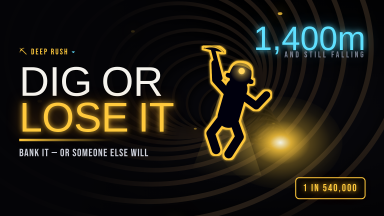
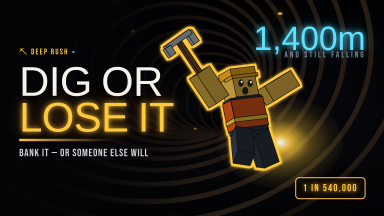
Rebuild the cover around a real blocky Roblox character
The first cover used a smooth silhouette. It looked good and it did not look
like Roblox, and a thumbnail's first job is telling a scrolling player what
platform they are looking at. Every top thumbnail on the platform does that
with an avatar.

robloxian.js builds a classic R6 rig out of real 3D boxes — projected,
depth-sorted, shaded per face against a light, posed by rotating actual
joints. Hard hat, hi-vis vest, pickaxe, and a deliberately shocked face:
strong expressions measurably out-click neutral ones.

avatar.mjs fetches a transparent render of a real account's avatar through the
official thumbnails API, for anyone who wants recognisability over posability.
The drawn rig stays the default because it always works, needs no account and
cannot be someone else's likeness.

The silhouette version is kept as thumb-depth-silhouette.html for comparison.

Claude-Session: https://claude.ai/code/session_01FZfKAgzrL8KdE8q7yoRDgc

Changed region(s): [[0.4062, 0.1111, 0.8125, 0.8056]]

diff --git a/roblox-deep-rush/cover/assets/robloxian.js b/roblox-deep-rush/cover/assets/robloxian.js
@@ -1,0 +1,222 @@
+/*
+  robloxian.js — an actual blocky Roblox character, drawn as real 3D boxes.
+
+  The first cover used a smooth silhouette. It looked good, but it did not
+  look like ROBLOX, and a thumbnail's first job is to tell a scrolling player
+  which platform and which kind of game they are looking at. Every top
+  thumbnail on the platform has a blocky avatar in it.
+
+  So this builds a classic R6 rig — head, torso, two arms, two legs — as
+  boxes in 3D, projects them, sorts the faces back-to-front and shades each
+  one by its angle to a light. Posing is real rotation around real joints,
+  which is why the pose reads as a pose rather than as a sticker.
+
+  The face is deliberately extreme. Thumbnails with strong emotional
+  expressions measurably out-click neutral ones, and "shocked" is the
+  expression the whole platform's visual language is built on.
+*/
+
+const DEG = Math.PI / 180;
+
+/* Camera: a three-quarter view, slightly from above. Straight-on loses the
+   blockiness entirely, and that blockiness is the whole point. */
+const YAW = -28 * DEG;
+const PITCH = 10 * DEG;
+
+const LIGHT = normalise([-0.45, 0.8, 0.55]);
+
+function normalise(v) {
+  const length = Math.hypot(v[0], v[1], v[2]) || 1;
+  return [v[0] / length, v[1] / length, v[2] / length];
+}
+
+function rotate(point, rotation) {
+  let [x, y, z] = point;
+  const [rx, ry, rz] = rotation.map((d) => d * DEG);
+
+  if (rz) {
+    const c = Math.cos(rz), s = Math.sin(rz);
+    [x, y] = [x * c - y * s, x * s + y * c];
+  }
+  if (rx) {
+    const c = Math.cos(rx), s = Math.sin(rx);
+    [y, z] = [y * c - z * s, y * s + z * c];
+  }
+  if (ry) {
+    const c = Math.cos(ry), s = Math.sin(ry);
+    [x, z] = [x * c + z * s, -x * s + z * c];
+  }
+  return [x, y, z];
+}
+
+function project(point) {
+  const [x, y, z] = point;
+  const cy = Math.cos(YAW), sy = Math.sin(YAW);
+  const x1 = x * cy + z * sy;
+  const z1 = -x * sy + z * cy;
+  const cp = Math.cos(PITCH), sp = Math.sin(PITCH);
+  const y1 = y * cp - z1 * sp;
+  const depth = y * sp + z1 * cp;
+  return { x: x1, y: -y1, depth };
+}
+
+/* Face definitions as corner indices into the 8 box corners, plus the
+   outward normal used for shading. */
+const FACES = [
+  { corners: [0, 1, 3, 2], normal: [0, 0, -1] }, // front
+  { corners: [5, 4, 6, 7], normal: [0, 0, 1] },  // back
+  { corners: [4, 0, 2, 6], normal: [-1, 0, 0] }, // left
+  { corners: [1, 5, 7, 3], normal: [1, 0, 0] },  // right
+  { corners: [4, 5, 1, 0], normal: [0, 1, 0] },  // top
+  { corners: [2, 3, 7, 6], normal: [0, -1, 0] }, // bottom
+];
+
+function shade(hex, amount) {
+  const n = parseInt(hex.slice(1), 16);
+  const r = Math.min(255, Math.max(0, Math.round(((n >> 16) & 255) * amount)));
+  const g = Math.min(255, Math.max(0, Math.round(((n >> 8) & 255) * amount)));
+  const b = Math.min(255, Math.max(0, Math.round((n & 255) * amount)));
+  return `rgb(${r},${g},${b})`;
+}
+
+/**
+ * Turn one box into drawable, depth-sorted polygons.
+ * pivot   world-space joint the part rotates about
+ * offset  centre of the box relative to that joint
+ * size    [width, height, depth] in studs
+ */
+function boxFaces(part) {
+  const { pivot, offset, size, rotation = [0, 0, 0], color } = part;
+  const [w, h, d] = size.map((s) => s / 2);
+
+  const local = [
+    [-w, h, -d], [w, h, -d], [-w, -h, -d], [w, -h, -d],
+    [-w, h, d], [w, h, d], [-w, -h, d], [w, -h, d],
+  ];
+
+  const world = local.map((corner) => {
+    const moved = [corner[0] + offset[0], corner[1] + offset[1], corner[2] + offset[2]];
+    const spun = rotate(moved, rotation);
+    return [spun[0] + pivot[0], spun[1] + pivot[1], spun[2] + pivot[2]];
+  });
+
+  const projected = world.map(project);
+
+  return FACES.map((face) => {
+    const normal = normalise(rotate(face.normal, rotation));
+    const lambert = Math.max(0, normal[0] * LIGHT[0] + normal[1] * LIGHT[1] + normal[2] * LIGHT[2]);
+    // Ambient floor keeps the shadowed side readable instead of black.
+    const brightness = 0.52 + lambert * 0.62;
+    const points = face.corners.map((index) => projected[index]);
+    return {
+      depth: points.reduce((sum, p) => sum + p.depth, 0) / 4,
+      points,
+      fill: shade(color, brightness),
+      part,
+    };
+  });
+}
+
+/**
+ * A classic R6 miner. `pose` rotates the limbs; everything else is fixed
+ * proportion, because R6 proportions are the recognisable part.
+ */
+function robloxMiner(options) {
+  const o = Object.assign({
+    scale: 46,
+    skin: '#f2c14a',
+    shirt: '#e2571e',
+    vest: '#ffd23f',
+    trousers: '#2c3446',
+    helmet: '#ffb020',
+    haft: '#7a5426',
+    steel: '#c9ced8',
+    lean: -14,
+    outline: '#08080c',
+    rim: '#ffc93c',
+  }, options || {});
+
+  /*
+    Joint angles, and how to read them. A limb hangs from its pivot with
+    offset (0,-1,0); a Z rotation of theta swings its far end to
+    (sin theta, -cos theta). So 0 hangs straight down, 180 points straight up,
+    and anything in 90..180 goes up-and-right. Getting this backwards is why
+    the first pass had both arms folded across the chest.
+  */
+  const ARM_PICK = 205;   // up and out to the left, holding the pick
+  const ARM_FREE = 112;   // out to the right, roughly horizontal
+
+  const parts = [
+    // Legs, splayed outward and kicked back so they read as two legs.
+    { pivot: [-0.5, -1, 0], offset: [0, -1, 0], size: [1, 2, 1], rotation: [30, 0, -20], color: o.trousers },
+    { pivot: [0.5, -1, 0], offset: [0, -1, 0], size: [1, 2, 1], rotation: [-18, 0, 16], color: o.trousers },
+
+    // Torso: dark shirt, hi-vis vest over it, reflective stripe across.
+    { pivot: [0, 0, 0], offset: [0, 0, 0], size: [2, 2, 1], color: o.trousers },
+    { pivot: [0, 0, 0], offset: [0, 0.06, 0], size: [2.08, 1.66, 1.08], color: o.shirt },
+    { pivot: [0, 0, 0], offset: [0, -0.28, 0], size: [2.12, 0.24, 1.12], color: o.vest },
+
+    // Arms.
+    { pivot: [-1.5, 1, 0], offset: [0, -1, 0], size: [1, 2, 1], rotation: [0, 0, ARM_PICK], color: o.skin },
+    { pivot: [1.5, 1, 0], offset: [0, -1, 0], size: [1, 2, 1], rotation: [0, 0, ARM_FREE], color: o.skin },
+
+    // The pickaxe hangs off the same pivot as the raised arm, so it stays in
+    // the hand no matter how that arm is posed, and it gets depth-sorted with
+    // everything else instead of floating on top as a flat sticker.
+    { pivot: [-1.5, 1, 0], offset: [0, -2.9, 0], size: [0.26, 2.6, 0.26], rotation: [0, 0, ARM_PICK], color: o.haft },
+    { pivot: [-1.5, 1, 0], offset: [0, -4.2, 0], size: [1.9, 0.3, 0.32], rotation: [0, 0, ARM_PICK], color: o.steel },
+    { pivot: [-1.5, 1, 0], offset: [-0.86, -3.86, 0], size: [0.42, 0.78, 0.32], rotation: [0, 0, ARM_PICK], color: o.steel },
+    { pivot: [-1.5, 1, 0], offset: [0.86, -3.94, 0], size: [0.42, 0.56, 0.32], rotation: [0, 0, ARM_PICK], color: o.steel },
+
+    // Head, hard hat, brim.
+    { pivot: [0, 1, 0], offset: [0, 0.62, 0], size: [1.45, 1.24, 1.45], color: o.skin, head: true },
+    { pivot: [0, 1, 0], offset: [0, 1.38, 0], size: [1.56, 0.52, 1.56], color: o.helmet },
+    { pivot: [0, 1, 0], offset: [0, 1.14, -0.42], size: [1.66, 0.18, 0.98], color: o.helmet },
+  ];
+
+  const faces = [];
+  for (const part of parts) faces.push(...boxFaces(part));
+  faces.sort((a, b) => b.depth - a.depth);
+
+  const lean = o.lean;
+  const body = faces.map((face) => {
+    const d = face.points.map((p) => `${(p.x * o.scale).toFixed(2)},${(p.y * o.scale).toFixed(2)}`).join(' ');
+    return `<polygon points="${d}" fill="${face.fill}" stroke="${o.outline}" stroke-width="1.6" stroke-linejoin="round"/>`;
+  }).join('\n    ');
+
+  // The face is drawn flat onto the head's front plane afterwards. Projecting
+  // it through the same pipeline would be more correct and would also make it
+  // unreadable at thumbnail size, which is the only size that counts.
+  const headAnchor = project([0, 1.62, -0.73]);
+  const fx = headAnchor.x * o.scale;
+  const fy = headAnchor.y * o.scale;
+
+  return `
+<svg viewBox="-230 -280 460 470" width="${o.width || 520}" xmlns="http://www.w3.org/2000/svg">
+  <defs>
+    <filter id="rmRim-${o.uid || 'a'}" x="-30%" y="-30%" width="160%" height="160%">
+      <feMorphology in="SourceAlpha" operator="dilate" radius="5" result="fat"/>
+      <feFlood flood-color="${o.rim}" flood-opacity="0.95"/>
+      <feComposite in2="fat" operator="in" result="outline"/>
+      <feGaussianBlur in="outline" stdDeviation="4" result="soft"/>
+      <feMerge>
+        <feMergeNode in="soft"/><feMergeNode in="outline"/><feMergeNode in="SourceGraphic"/>
+      </feMerge>
+    </filter>
+  </defs>
+
+  <g filter="url(#rmRim-${o.uid || 'a'})" transform="rotate(${o.lean})">
+    ${body}
+
+    <!-- Shocked face. Strong expressions measurably out-click neutral ones,
+         and this is the expression the platform's visual language runs on. -->
+    <g transform="translate(${fx.toFixed(2)} ${fy.toFixed(2)}) rotate(${(-YAW / DEG * 0.5).toFixed(1)})">
+      <ellipse cx="-12" cy="-5" rx="7" ry="9.5" fill="#141414"/>
+      <ellipse cx="12" cy="-5" rx="7" ry="9.5" fill="#141414"/>
+      <ellipse cx="-10.2" cy="-8.2" rx="2.3" ry="2.9" fill="#ffffff"/>
+      <ellipse cx="13.8" cy="-8.2" rx="2.3" ry="2.9" fill="#ffffff"/>
+      <ellipse cx="0" cy="15" rx="8" ry="10" fill="#141414"/>
+    </g>
+  </g>
+</svg>`;
+}

diff --git a/roblox-deep-rush/cover/thumb-steal.html b/roblox-deep-rush/cover/thumb-steal.html
@@ -22,13 +22,13 @@
     .sub { font-family: 'Bebas Neue', sans-serif; font-size: 52px;
            letter-spacing: 0.07em; color: #cfd2dc; }
 
-    .victim { position: absolute; left: 73%; top: 19%; z-index: 62; }
-    .thief  { position: absolute; left: 55%; top: 34%; z-index: 61; transform: scaleX(-1); }
-    .loot   { position: absolute; left: 66.5%; top: 61%; z-index: 63; }
+    .victim { position: absolute; left: 70%; top: 12%; transform: translateX(-50%); z-index: 62; }
+    .thief  { position: absolute; left: 52%; top: 30%; z-index: 61; transform: translateX(-50%) scaleX(-1); }
+    .loot   { position: absolute; left: 61%; top: 66%; z-index: 63; }
 
     /* The state the whole steal mechanic hangs on, shown as the game shows it. */
     .marked {
-      position: absolute; left: 84%; top: 13%; z-index: 66;
+      position: absolute; left: 82%; top: 7%; z-index: 66;
       transform: translateX(-50%);
       padding: 14px 30px; border: 5px solid var(--greed); border-radius: 999px;
       background: rgba(12,2,8,0.85);
@@ -65,12 +65,19 @@
 
   <script src="assets/shaft.js"></script>
   <script src="assets/figures.js"></script>
+  <script src="assets/robloxian.js"></script>
   <script>
     buildShaft(document.getElementById('shaft'), {
       mouthX: 40, mouthY: 20, coreX: 72, coreY: 60, hue: 'greed', maxLightness: 11,
     });
-    document.getElementById('victim').innerHTML = minerFalling({ size: 380, accent: '#ff3d7f', lamp: '#ff86b4' });
-    document.getElementById('thief').innerHTML  = minerFalling({ size: 300, accent: '#ffc93c', lamp: '#ffd45e' });
+    // uid matters: two SVGs on one page otherwise share the first one's
+    // filter, and the marked player comes out wearing the thief's rim.
+    document.getElementById('victim').innerHTML = robloxMiner({
+      width: 620, lean: -8, uid: 'victim', rim: '#ff3d7f', helmet: '#ff5f96', shirt: '#c9265c',
+    });
+    document.getElementById('thief').innerHTML = robloxMiner({
+      width: 480, lean: 16, uid: 'thief', rim: '#ffc93c',
+    });
     document.getElementById('loot').innerHTML   = crate({ size: 230 });
   </script>
 </body>

diff --git a/roblox-deep-rush/cover/thumb-depth-silhouette.html b/roblox-deep-rush/cover/thumb-depth-silhouette.html
@@ -47,7 +47,7 @@
         rgba(4,4,7,0.97) 0%, rgba(4,4,7,0.93) 26%,
         rgba(4,4,7,0.55) 40%, rgba(4,4,7,0) 54%);
     }
-    .figure { position: absolute; left: 64%; top: 4%; transform: translateX(-50%); z-index: 62; }
+    .figure { position: absolute; left: 60%; top: 21%; transform: translateX(-50%); z-index: 62; }
   </style>
 </head>
 <body>
@@ -75,14 +75,9 @@
 
   <script src="assets/shaft.js"></script>
   <script src="assets/figures.js"></script>
-  <script src="assets/robloxian.js"></script>
   <script>
     buildShaft(document.getElementById('shaft'), { mouthX: 38, mouthY: 22, coreX: 73, coreY: 66 });
-    // A blocky R6 rig rather than a smooth silhouette: a thumbnail's first job
-    // is to say "this is Roblox", and every top thumbnail on the platform does
-    // it with an avatar. Drop a real avatar render in by running
-    // `node cover/avatar.mjs <username>` — see cover/README.md.
-    document.getElementById('figure').innerHTML = robloxMiner({ width: 880, lean: -12, uid: 'hero' });
+    document.getElementById('figure').innerHTML = minerFalling({ size: 460 });
   </script>
 </body>
 </html>

diff --git a/roblox-deep-rush/cover/icon.html b/roblox-deep-rush/cover/icon.html
@@ -12,7 +12,7 @@
     */
     html, body { width: 512px; height: 512px; }
     .figure {
-      position: absolute; left: 50%; top: 46%;
+      position: absolute; left: 52%; top: 44%;
       transform: translate(-50%,-50%); z-index: 62;
     }
     .edge {
@@ -33,12 +33,13 @@
 
   <script src="assets/shaft.js"></script>
   <script src="assets/figures.js"></script>
+  <script src="assets/robloxian.js"></script>
   <script>
     buildShaft(document.getElementById('shaft'), {
       mouthX: 44, mouthY: 30, coreX: 54, coreY: 62,
       rings: 16, start: 900, ratio: 0.855, maxLightness: 15,
     });
-    document.getElementById('figure').innerHTML = minerFalling({ size: 250 });
+    document.getElementById('figure').innerHTML = robloxMiner({ width: 470, lean: -10, uid: 'icon' });
   </script>
 </body>
 </html>

diff --git a/roblox-deep-rush/cover/README.md b/roblox-deep-rush/cover/README.md
@@ -47,21 +47,26 @@ npm-Installation: der PNG-Zuschnitt und das Herunterskalieren stecken in
 - **Tunnel:** `assets/shaft.js` — Mündung, Kern, Ringzahl, Farbton.
 - **Figur:** `assets/figures.js`.
 
-### Deinen eigenen Avatar einsetzen
+### Deinen echten Avatar einsetzen
 
-Die Figur ist bewusst gezeichnet statt gerendert: eine Avatar-Aufnahme
-veraltet, sobald du dein Outfit wechselst, und eine texturierte Figur
-verschwindet bei 150 px zu Matsch, wo eine Silhouette noch steht.
-
-Wenn du trotzdem deinen Avatar willst: exportiere ihn aus Studio als
-transparentes PNG und ersetze in `thumb-depth.html` die Zeile
-
-```js
-document.getElementById('figure').innerHTML = minerFalling({ size: 460 });
+```bash
+node cover/avatar.mjs DEIN_ROBLOX_NAME
+node cover/render.mjs
 ```
 
-durch ein `<img>` auf deine Datei. Die Figur liegt auf einer eigenen Ebene,
-genau dafür.
+Holt einen transparenten Ganzkörper-Render deines aktuellen Avatars über die
+offizielle Roblox-Thumbnails-API nach `assets/avatar.png`. Richte das nur auf
+einen Account, der dir gehört.
+
+**Warum trotzdem eine gezeichnete Figur die Voreinstellung ist:** sie
+funktioniert immer, braucht keinen Account, kann nicht versehentlich die
+Ähnlichkeit einer fremden Person sein — und sie lässt sich posen. Ein
+API-Render kommt in fester Standardpose; der gezeichnete R6-Miner hier hält
+eine Spitzhacke, fällt, und guckt erschrocken.
+
+Der Vorteil deines echten Avatars ist **Wiedererkennung**: dasselbe Outfit auf
+jedem Thumbnail, das du je machst, so wie Roblox-Kanäle aufgebaut werden. Wenn
+du regelmäßig postest, ist das den Tausch wert.
 
 ## Was beim Bauen gelernt wurde
 
@@ -77,3 +82,9 @@ Ankündigung.
 Diebstahl-Thumbnail definierten `<filter id="rimlight">`; die erste Definition
 gewann für beide, und der magenta markierte Spieler bekam die amber Kontur des
 Diebs. Jede Instanz hängt jetzt einen Zähler an ihre IDs.
+
+**Gelenkwinkel sind leicht zu spiegeln.** In `robloxian.js` hängt ein Glied vom
+Gelenk mit Offset (0,−1,0); eine Z-Drehung um θ schwingt sein Ende nach
+(sin θ, −cos θ). 0 hängt nach unten, 180 zeigt nach oben. Beim ersten Versuch
+hatte ich das umgekehrt im Kopf — beide Arme lagen vor der Brust und die Beine
+verschmolzen zu einem Klotz.
